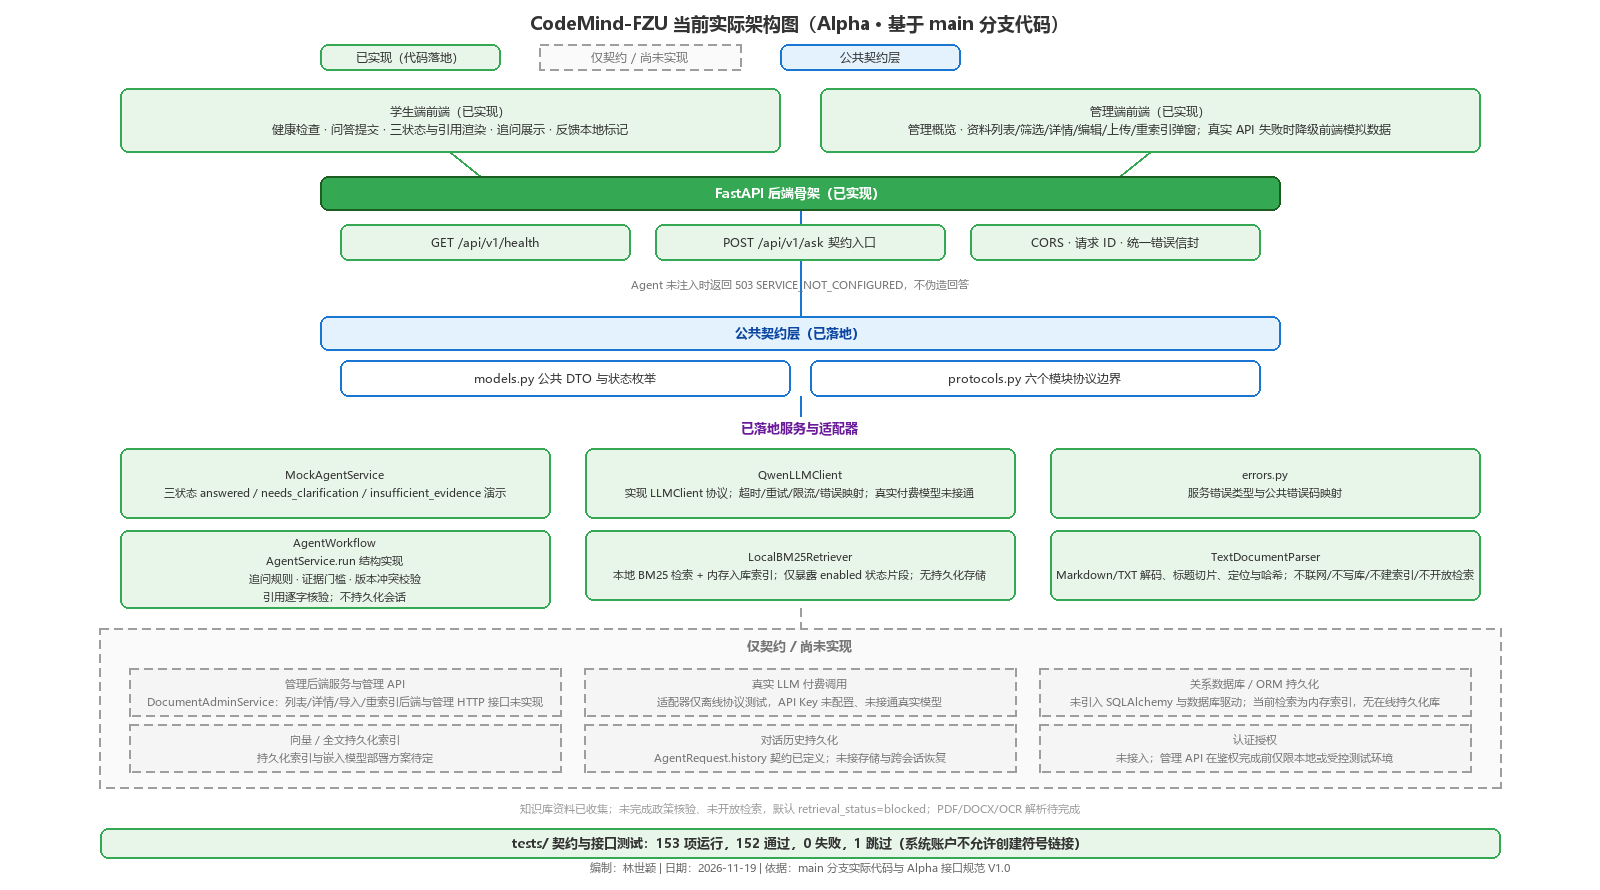
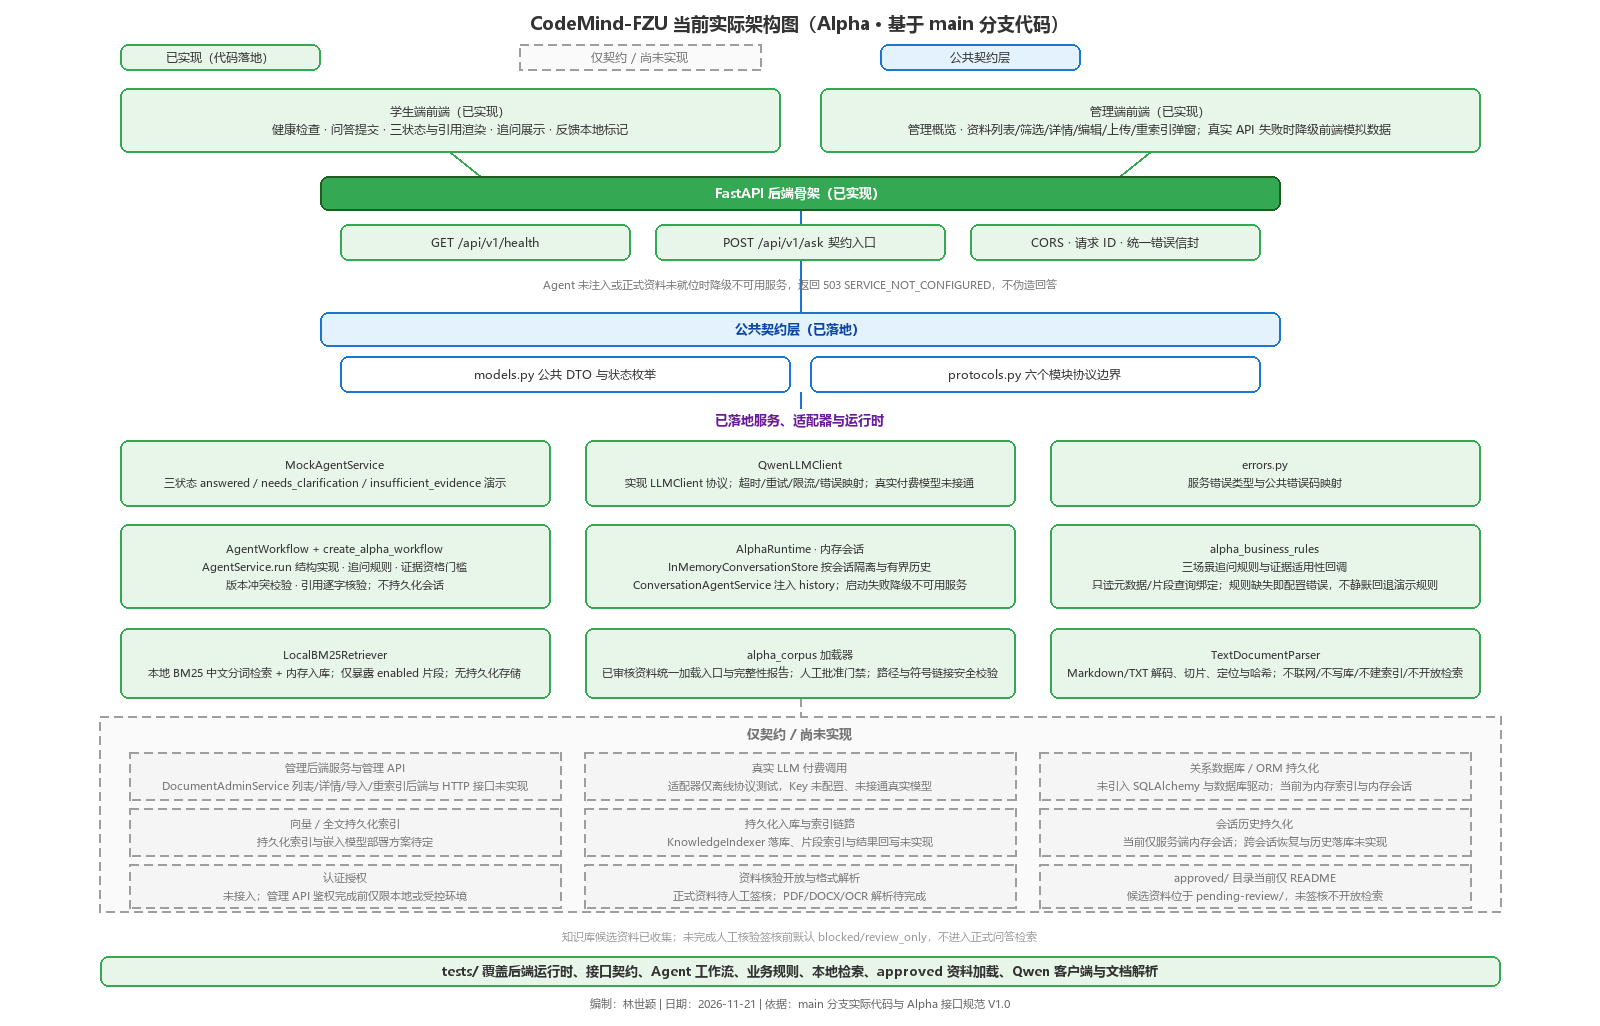
docs(alpha): 按最新 main 刷新架构图与模块依赖说明
依据 main 最新代码更新当前/目标架构图、问答流程图与模块依赖说明：补充 Alpha 运行时、内存会话、业务规则模块与已审核资料加载器；细化已实现与未实现边界；drawio/svg/png 三格式同源一致。

Changed region(s): [[0.0625, 0.0, 0.9375, 1.0], [0.625, 0.7584, 0.6562, 0.7888], [0.5938, 0.7281, 0.625, 0.7584]]

diff --git a/docs/assignment-03/alpha/architecture/架构说明与模块依赖_林世颖.md b/docs/assignment-03/alpha/architecture/架构说明与模块依赖_林世颖.md
@@ -1,6 +1,6 @@
 # CodeMind-FZU Alpha 系统架构说明与模块依赖
 
-编制：林世颖｜日期：2026-11-19｜基线：main 分支实际代码与 Alpha 接口规范 V1.0
+编制：林世颖｜日期：2026-11-21｜基线：main 分支实际代码与 Alpha 接口规范 V1.0
 
 ## 1. 说明范围与核对口径
 
@@ -17,19 +17,23 @@
 | 模块 | 代码位置 | 职责与当前边界 |
 | --- | --- | --- |
 | FastAPI 应用骨架 | `backend/app/main.py` | 提供 `/api/v1/health` 与 `/api/v1/ask` 契约入口；CORS、请求 ID、统一错误信封；Agent 与 LLM 客户端注入点。Agent 未注入时问答接口返回 `503 SERVICE_NOT_CONFIGURED`，不伪造模型回答 |
+| Alpha 运行时装配入口 | `backend/app/alpha.py` | `create_alpha_app()` 在 lifespan 中构建真实运行时；运行时不可用时降级为 `UnavailableAgentService`，不产生伪造回答 |
 | 本地开发入口 | `backend/app/dev.py` | 组装应用并注入 `MockAgentService`，仅用于本地演示 |
 | 应用配置 | `backend/app/config.py` | 读取环境变量，提供 CORS 来源、方法与请求头配置 |
-| 公共数据模型 | `backend/contracts/models.py` | Pydantic v2 公共 DTO 与状态枚举，是前后端与各模块的单一事实来源 |
+| 公共数据模型 | `backend/contracts/models.py` | Pydantic v2 公共 DTO 与状态枚举，是前后端与各模块的单一事实来源；含 `ConversationTurn`、`DocumentMetadata` 时效/适用字段及来源、时效、检索状态枚举 |
 | 模块协议边界 | `backend/contracts/protocols.py` | 定义 `AgentService`、`Retriever`、`DocumentParser`、`KnowledgeIndexer`、`LLMClient`、`DocumentAdminService` 六个 Protocol |
 | Mock Agent 服务 | `backend/services/mock_agent.py` | 演示问答三种状态 `answered`、`needs_clarification`、`insufficient_evidence` 的返回结构 |
-| Agent 工作流 | `backend/services/agent_workflow.py` | 实现 `AgentService.run()`：追问规则、信息完整性与个人化槽位判断、证据资格门槛、同文档多版本冲突校验、引用逐字核验；不持久化会话，不直连模型 |
+| Agent 工作流与工厂 | `backend/services/agent_workflow.py` | `AgentWorkflow` 实现 `AgentService.run()`：追问规则、信息完整性与个人化槽位判断、证据资格门槛、同文档多版本冲突校验、引用逐字核验；`create_alpha_workflow()` 工厂组装本地检索、业务回调与 Qwen 适配器，并做已审核资料完整性与人工批准门禁；不持久化会话，不直连模型 |
+| Alpha 运行时与内存会话 | `backend/services/alpha_runtime.py` | `AlphaRuntime` 组装真实服务；`InMemoryConversationStore` 按 `conversation_id` 隔离、维护有界历史并做空闲清理与淘汰；`ConversationAgentService` 包装并注入 `history`；`UnavailableAgentService` 作为不可用兜底 |
+| 业务规则模块 | `backend/services/alpha_business_rules.py` | 三场景追问规则 `alpha_clarification_rule` 与证据适用性回调 `alpha_evidence_check` / `build_from_retriever`；绑定只读元数据与片段查询；规则模块缺失按配置错误处理，不静默回退演示规则 |
 | 本地检索与内存索引 | `backend/retrieval/local.py` | `LocalBM25Retriever` 实现 `Retriever.retrieve()`，BM25 中文二元分词检索并支持内存入库；只暴露 `enabled` 状态片段，含文件哈希与可用性校验；无持久化存储、不接数据库 |
+| 已审核资料加载器 | `backend/retrieval/alpha_corpus.py` | `load_approved_alpha_retriever()` 统一加载已审核资料包并生成加载报告；做人工批准门禁、路径与符号链接安全校验、重复版本校验；资料包未就位或完整性不通过时不启用正式检索 |
 | Qwen 模型适配器 | `backend/services/qwen_client.py` | 实现 `LLMClient` 协议，包含超时、重试、限流与错误映射；API Key 仅从环境变量读取；尚未接入真实付费模型调用 |
 | 服务错误体系 | `backend/services/errors.py` | 定义服务错误类型与公共错误码映射 |
 | 文档解析器 | `backend/document_processing/parser.py` | 实现 `DocumentParser`，支持 Markdown/TXT 解析与切片；不联网、不写库、不建索引、不开放检索；解析包默认 `retrieval_status=blocked` |
 | 学生端前端 | `frontend/src/student/main.ts`、`src/shared/api.ts`、`src/shared/types.ts` | Vite + 原生 TypeScript 多页面工程；健康检查、问答提交（`query`、`conversation_id`）、三状态与引用渲染、追问展示、话题快捷填充；反馈按钮仅本地标记，无上报接口 |
 | 管理端前端 | `frontend/src/admin/main.ts`、`filters.ts`、`render.ts`、`mock.ts`、`status.ts`、`validate.ts` | 管理概览与资料管理页面：列表、筛选、详情、编辑、上传与重索引弹窗；先调用真实管理 API，失败时降级前端模拟数据；写操作失败如实报错，演示模式明确标注未写库 |
-| 测试 | `tests/` | 覆盖后端运行时、接口契约、Mock Agent、Qwen 客户端、文档解析、Agent 工作流与本地检索 |
+| 测试 | `tests/` | 覆盖后端运行时、接口契约、Mock Agent、Qwen 客户端、文档解析、Agent 工作流、业务规则、本地检索与已审核资料加载 |
 
 ### 2.2 仅契约 / 尚未实现
 
@@ -37,24 +41,24 @@
 | --- | --- | --- |
 | 管理后端服务与管理 API | `DocumentAdminService` 与管理 API | 管理端页面已对接，但列表、详情、导入、重索引对应的后端服务与管理 HTTP 接口尚未实现，当前由前端模拟数据兜底 |
 | 真实 LLM 付费调用 | `LLMClient.generate()` | 适配器仅完成协议适配与离线测试，API Key 未配置、未接通真实付费模型 |
-| 关系数据库 / ORM 持久化 | 数据模型与候选基线 | 未引入 SQLAlchemy 与数据库驱动；PostgreSQL 16 与 SQLAlchemy 2.0 为候选技术基线，实际数据库部署与 ORM 在线接入尚未完成，当前检索为内存索引 |
+| 关系数据库 / ORM 持久化 | 数据模型与候选基线 | 未引入 SQLAlchemy 与数据库驱动；PostgreSQL 16 与 SQLAlchemy 2.0 为候选技术基线，实际数据库部署与 ORM 在线接入尚未完成，当前检索为内存索引、会话为内存存储 |
 | 向量 / 全文持久化索引 | `Retriever` 与索引约定 | 持久化索引、嵌入模型与部署方案待定；当前仅本地 BM25 内存检索 |
 | 持久化入库与索引链路 | `KnowledgeIndexer.index_document()` | 文档包持久化入库、片段索引与索引结果回写尚未实现；内存入库仅用于本地检索演示 |
-| 对话历史持久化 | `AgentRequest.history` | 契约已定义历史消息结构；当前未接入历史存储与跨会话恢复，前端仅维持当前会话上下文 |
+| 对话历史持久化与跨会话恢复 | `AgentRequest.history` | 契约已定义历史消息结构；当前由服务端内存会话维护有界历史，尚未落库，也不支持跨会话恢复 |
 | 认证授权 | 安全边界约定 | 尚未接入；管理 API 在鉴权完成前仅限本地或受控测试环境使用 |
-| 知识库资料入库核验 | 资料状态约定 | 原始资料已收集，但未完成政策核验、未开放检索，默认 `blocked`；PDF/DOCX/OCR 解析待完成 |
+| 知识库资料入库核验与格式解析 | 资料状态约定 | 候选资料已收集，`approved/` 目录当前仅有说明文件；正式资料未完成人工核验签核、未开放检索，默认 `blocked` / `review_only`；PDF/DOCX/OCR 解析待完成 |
 
 ## 3. 当前系统实际架构
 
 对应图件：`当前系统架构图_林世颖.drawio` / `.svg` / `.png`。
 
-当前 main 分支的可运行部分集中在后端骨架、公共契约、已落地的 Agent 工作流与本地检索、Mock 与适配器、本地文档解析器及配套测试：
+当前 main 分支的可运行部分集中在后端骨架、公共契约、已落地的 Agent 工作流与运行时、业务规则、本地检索与已审核资料加载器、Mock 与适配器、本地文档解析器及配套测试：
 
 1. 学生端已落地 Vite + 原生 TypeScript 工程与问答联调页，可通过 `/api/v1/health`、`/api/v1/ask` 与后端契约入口联调；管理端页面已落地概览与资料管理交互，真实管理 API 不可用时降级前端模拟数据。反馈上报、历史对话持久化仍待开发。
-2. FastAPI 骨架提供健康检查与问答契约入口，统一处理请求校验、请求 ID、CORS 与错误信封；未注入 Agent 时返回服务未配置错误，不产生伪造回答。
-3. 公共契约层由 `models.py` 与 `protocols.py` 构成，已落地的服务适配器、Agent 工作流与本地检索均遵守其中的类型与协议边界。
-4. 已落地服务包括 Mock Agent、Agent 工作流、本地 BM25 检索与内存索引、Qwen 适配器、文档解析器与错误体系；其中 Qwen 适配器与文档解析器均只完成协议适配或本地解析，未接通真实模型调用、持久化入库、持久化索引与检索开放。
-5. 管理后端服务与管理 API、真实模型付费调用、数据库在线接入、持久化索引、对话历史持久化、认证授权目前仅保留协议或接口约定，图中以虚线框标注。
+2. FastAPI 骨架提供健康检查与问答契约入口，统一处理请求校验、请求 ID、CORS 与错误信封；Alpha 运行时在 lifespan 中构建，运行时或正式资料不可用时降级为不可用服务，不产生伪造回答。
+3. 公共契约层由 `models.py` 与 `protocols.py` 构成，已落地的服务适配器、Agent 工作流、业务规则与本地检索均遵守其中的类型与协议边界。
+4. 已落地服务包括 Mock Agent、Agent 工作流与工厂、Alpha 运行时与内存会话、业务规则、本地 BM25 检索与内存索引、已审核资料加载器、Qwen 适配器、文档解析器与错误体系；其中 Qwen 适配器与文档解析器均只完成协议适配或本地解析，未接通真实模型调用、持久化入库、持久化索引与检索开放。
+5. 管理后端服务与管理 API、真实模型付费调用、数据库在线接入、持久化索引、会话历史持久化与跨会话恢复、认证授权目前仅保留协议或接口约定，图中以虚线框标注。
 
 ## 4. 目标系统架构
 
@@ -65,7 +69,7 @@ Alpha 目标分层与调用方向如下：
 1. 学生浏览器通过 HTTP/JSON 访问 FastAPI 后端，负责问题输入、回答与引用展示、追问交互与反馈。
 2. FastAPI 后端完成请求校验、ID 管理、Agent 调用入口与错误处理，不直接编排业务规则。
 3. Agent 工作流内部包含业务规则配置、Retriever 检索与 LLMClient 模型适配三个协作部分。
-4. 数据资源层包括关系数据库、向量/全文检索索引与知识库资料文件；嵌入模型与检索部署方案尚未最终确定。
+4. 数据资源层包括关系数据库（含会话历史落库）、向量/全文检索索引与知识库资料文件；嵌入模型与检索部署方案尚未最终确定。
 5. 后台管理端通过管理服务链路对接文档解析与入库索引，负责资料列表、详情、元数据维护、导入与重索引。
 
 后端与 Agent、Agent 与检索/模型之间使用 Python 类型化接口；浏览器与后端之间使用 HTTP/JSON，内部调用不额外引入 HTTP 服务。
@@ -98,27 +102,28 @@ Alpha 目标分层与调用方向如下：
 - 问答状态 `status`：`answered`、`needs_clarification`、`insufficient_evidence`。
 - 回答用途 `answer_mode`：`current_policy`、`historical`、`procedure_reference`、`insufficient_data`。
 - 检索器默认只返回 `retrieval_status=enabled` 的片段；没有符合条件的证据时返回空列表，不返回 blocked 资料作为正式政策依据。
-- 索引完成不自动开放检索；开放检索须满足核验条件并经明确流程确认。
+- 工作流证据门槛要求片段来源已核验、时效为当前、人工批准标记一致，并与元数据逐项核对；索引完成不自动开放检索。
 
 ## 6. 问答调用流程
 
 对应图件：`问答调用流程图_林世颖.drawio` / `.svg` / `.png`。
 
 1. 学生在浏览器提交问题，后端通过 `POST /api/v1/ask` 接收 `query` 与 `conversation_id`。
-2. FastAPI 后端完成请求校验，生成或沿用 `request_id` 与 `conversation_id`，构造 `AgentRequest` 交给 Agent 工作流。
+2. FastAPI 后端完成请求校验；会话存储按 `conversation_id` 载入历史，生成或沿用 `request_id` 与 `conversation_id`，构造 `AgentRequest` 交给 Agent 工作流。
 3. Agent 进行意图识别与信息完整性判断：信息不充分时，返回 `needs_clarification` 与 `clarifying_question`，前端展示追问并等待用户补充后再次提交。
-4. 信息充分时，Agent 调用 `Retriever.retrieve()` 检索处于 `enabled` 状态的片段。
+4. 信息充分时，Agent 调用 `Retriever.retrieve()` 检索处于 `enabled` 状态、且来源/时效/人工批准通过的片段。
 5. 检索结果中没有可用证据时，返回 `insufficient_evidence`，附带解释与 `warnings`，`citations` 为空，不伪造政策答案。
-6. 存在可用证据时，Agent 调用 `LLMClient.generate()` 组织回答；模型输出不作为证据，引用只能来自检索返回并被本次回答实际采用的片段。
+6. 存在可用证据时，Agent 调用 `LLMClient.generate()` 选取证据摘录；模型输出不作为证据，引用只能来自检索返回并被本次回答实际采用的片段，并经过逐字核验。
 7. `AgentResult` 由后端包装为 `AskResponse` 返回前端；前端展示回答、引用与 warnings。
 
 ## 7. 设计约束与边界
 
 - 各模块导入公共模型与 Protocol，不在各自模块中重复定义相同 DTO；公共字段、类型、路径、状态值与函数签名的变更须先报组长统一确认。
-- 文档完成解析、入库或建立索引，不等于政策已核验，也不等于可以进入正式问答检索。
+- 文档完成解析、入库或建立索引，不等于政策已核验，也不等于可以进入正式问答检索；开放检索须满足核验条件并经明确流程确认。
 - 当前尚未完成认证授权接入，管理端 API 不能对公网暴露；前端隐藏按钮不构成权限控制。
 - 模型 API Key 只从环境变量读取，不写入源码、文档、日志或 Git 历史；不向浏览器传递密钥、数据库连接串、内部堆栈或本地绝对路径。
 - 浏览器不直接访问数据库或检索存储。
+- 内存会话与内存索引仅用于当前阶段联调，不构成持久化存储方案。
 
 ## 8. 配套文件清单
 
@@ -139,5 +144,5 @@ Alpha 目标分层与调用方向如下：
 
 ## 9. 测试与核对记录
 
-- `tests/` 目录覆盖后端运行时、接口契约、Mock Agent、Qwen 客户端、文档解析、Agent 工作流与本地检索。
+- `tests/` 目录覆盖后端运行时、接口契约、Mock Agent、Qwen 客户端、文档解析、Agent 工作流、业务规则、本地检索与已审核资料加载。
 - 测试记录见 `docs/assignment-03/alpha/test-results.json`：153 项运行，152 项通过，0 失败，1 项因当前系统账户不允许创建符号链接而跳过；解析通过不代表已完成政策核验、入库或检索接入。
